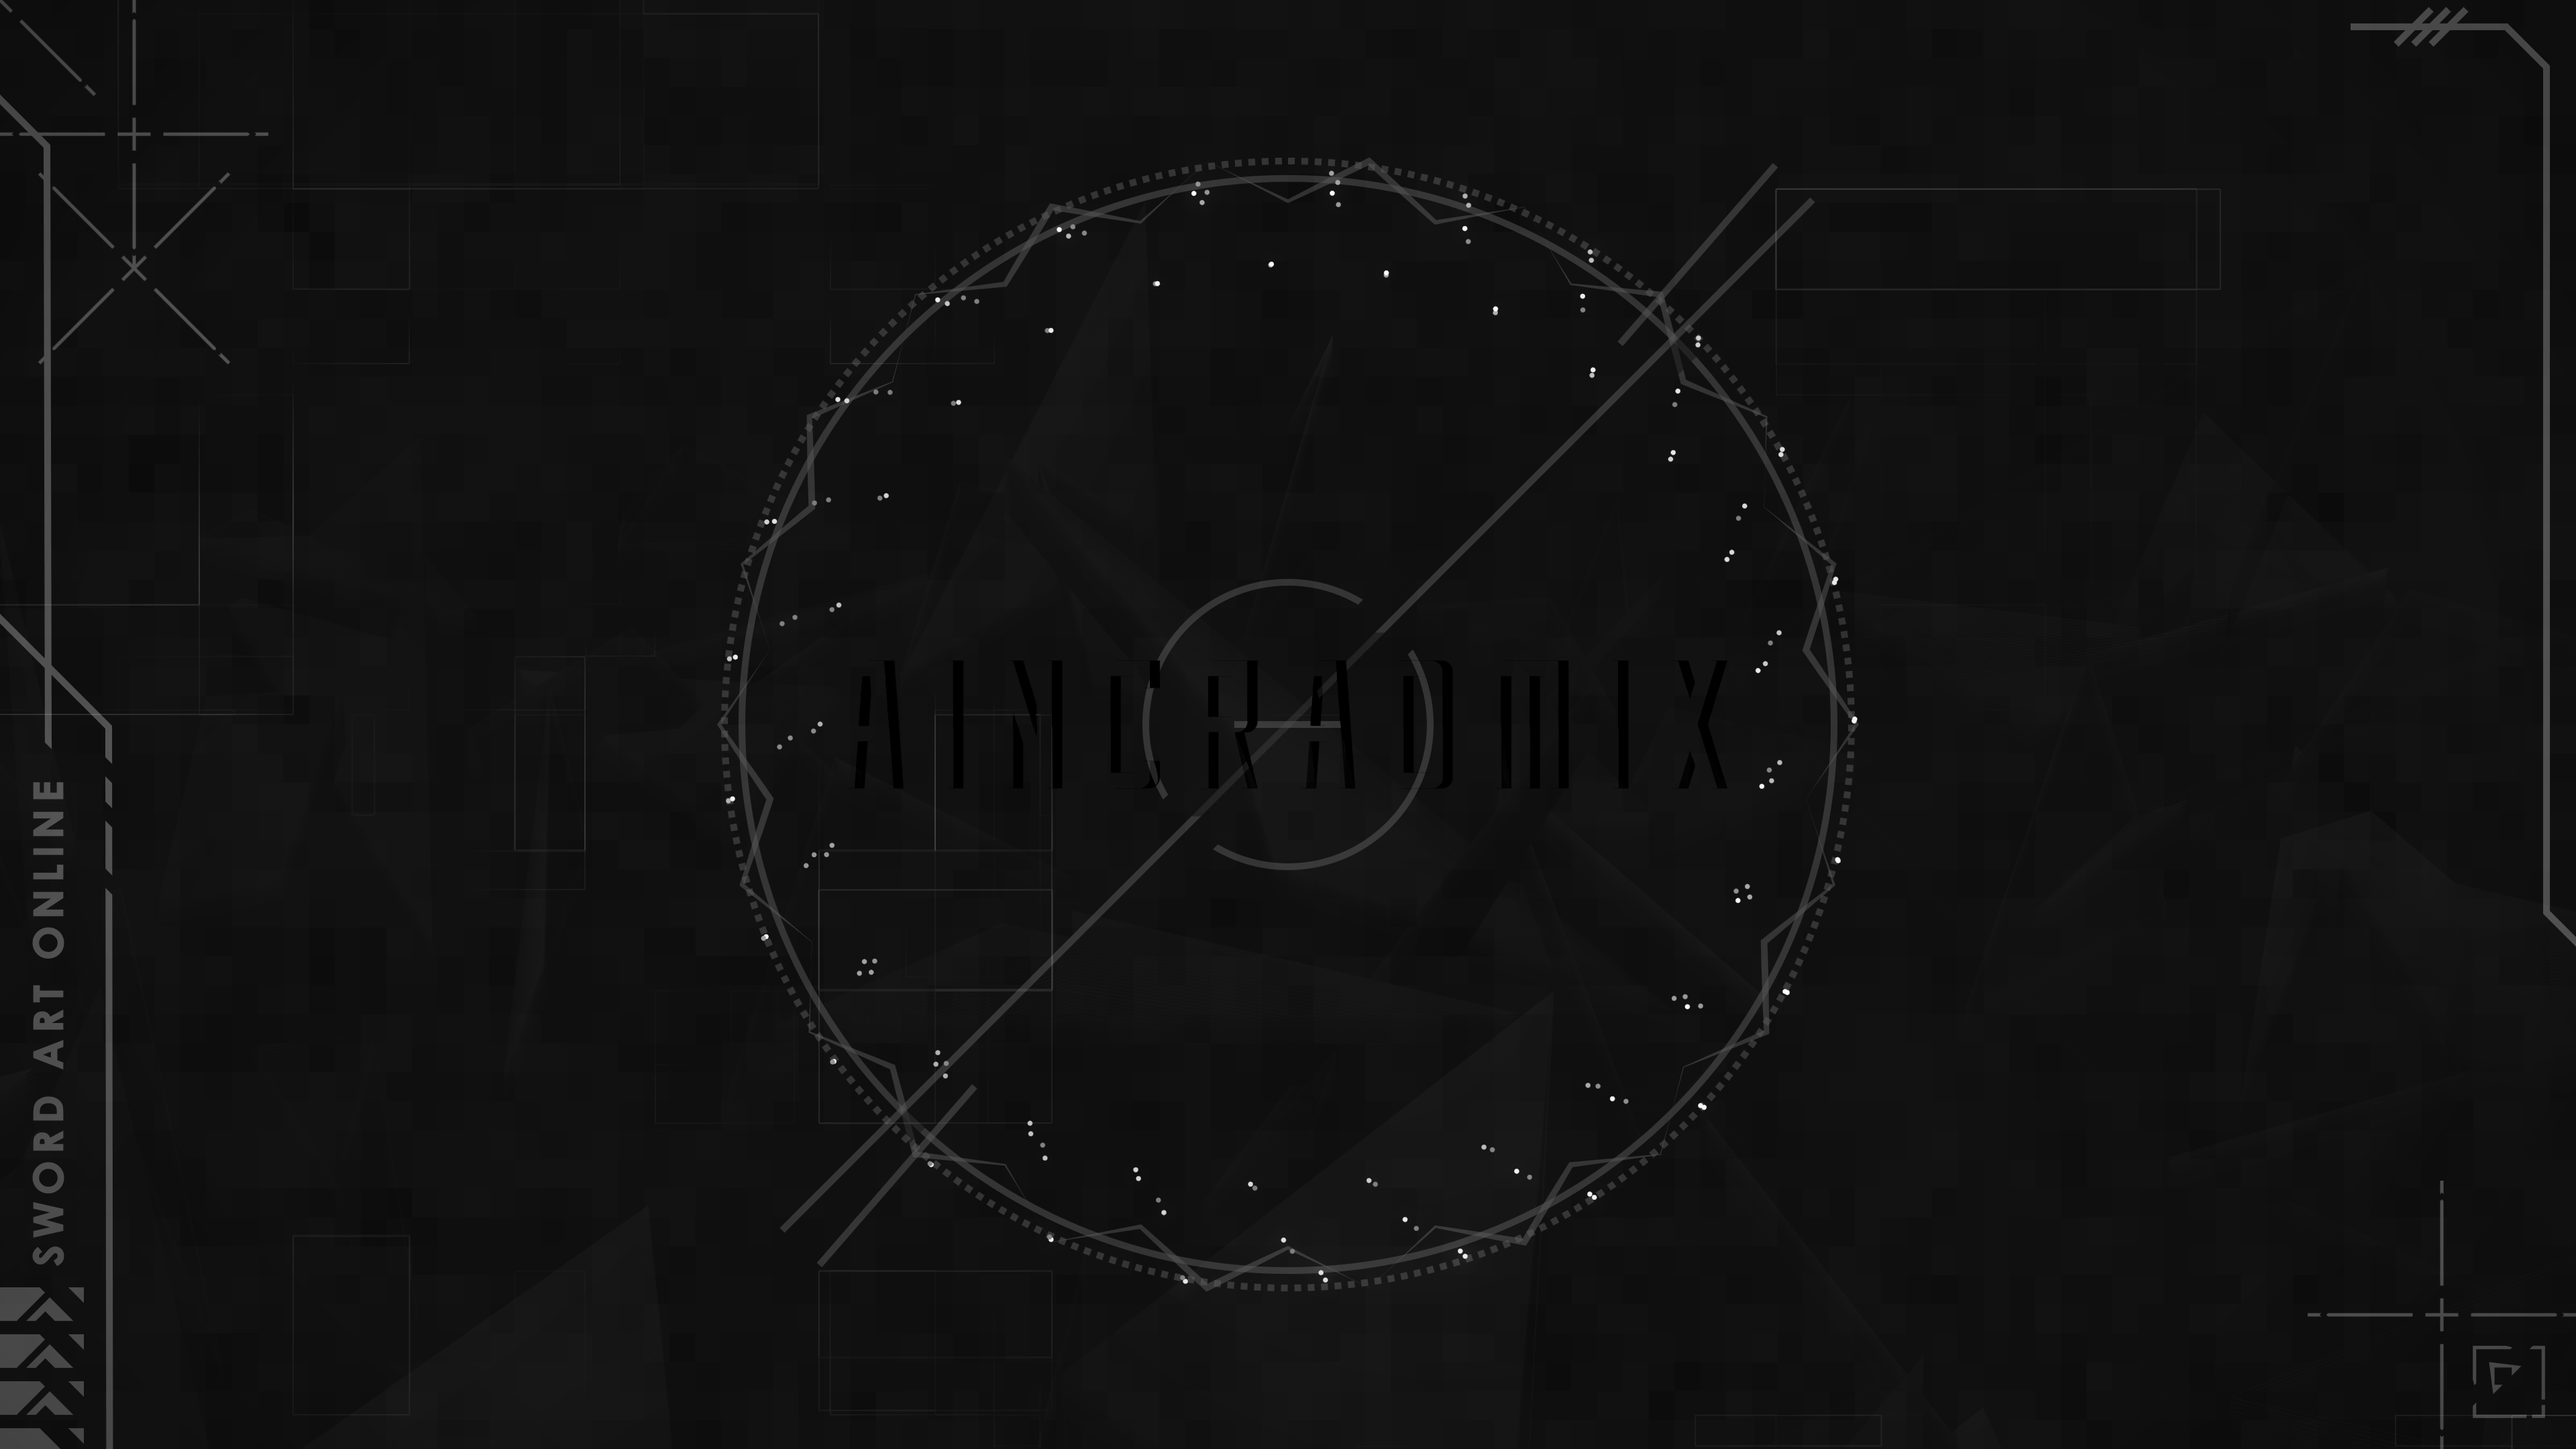
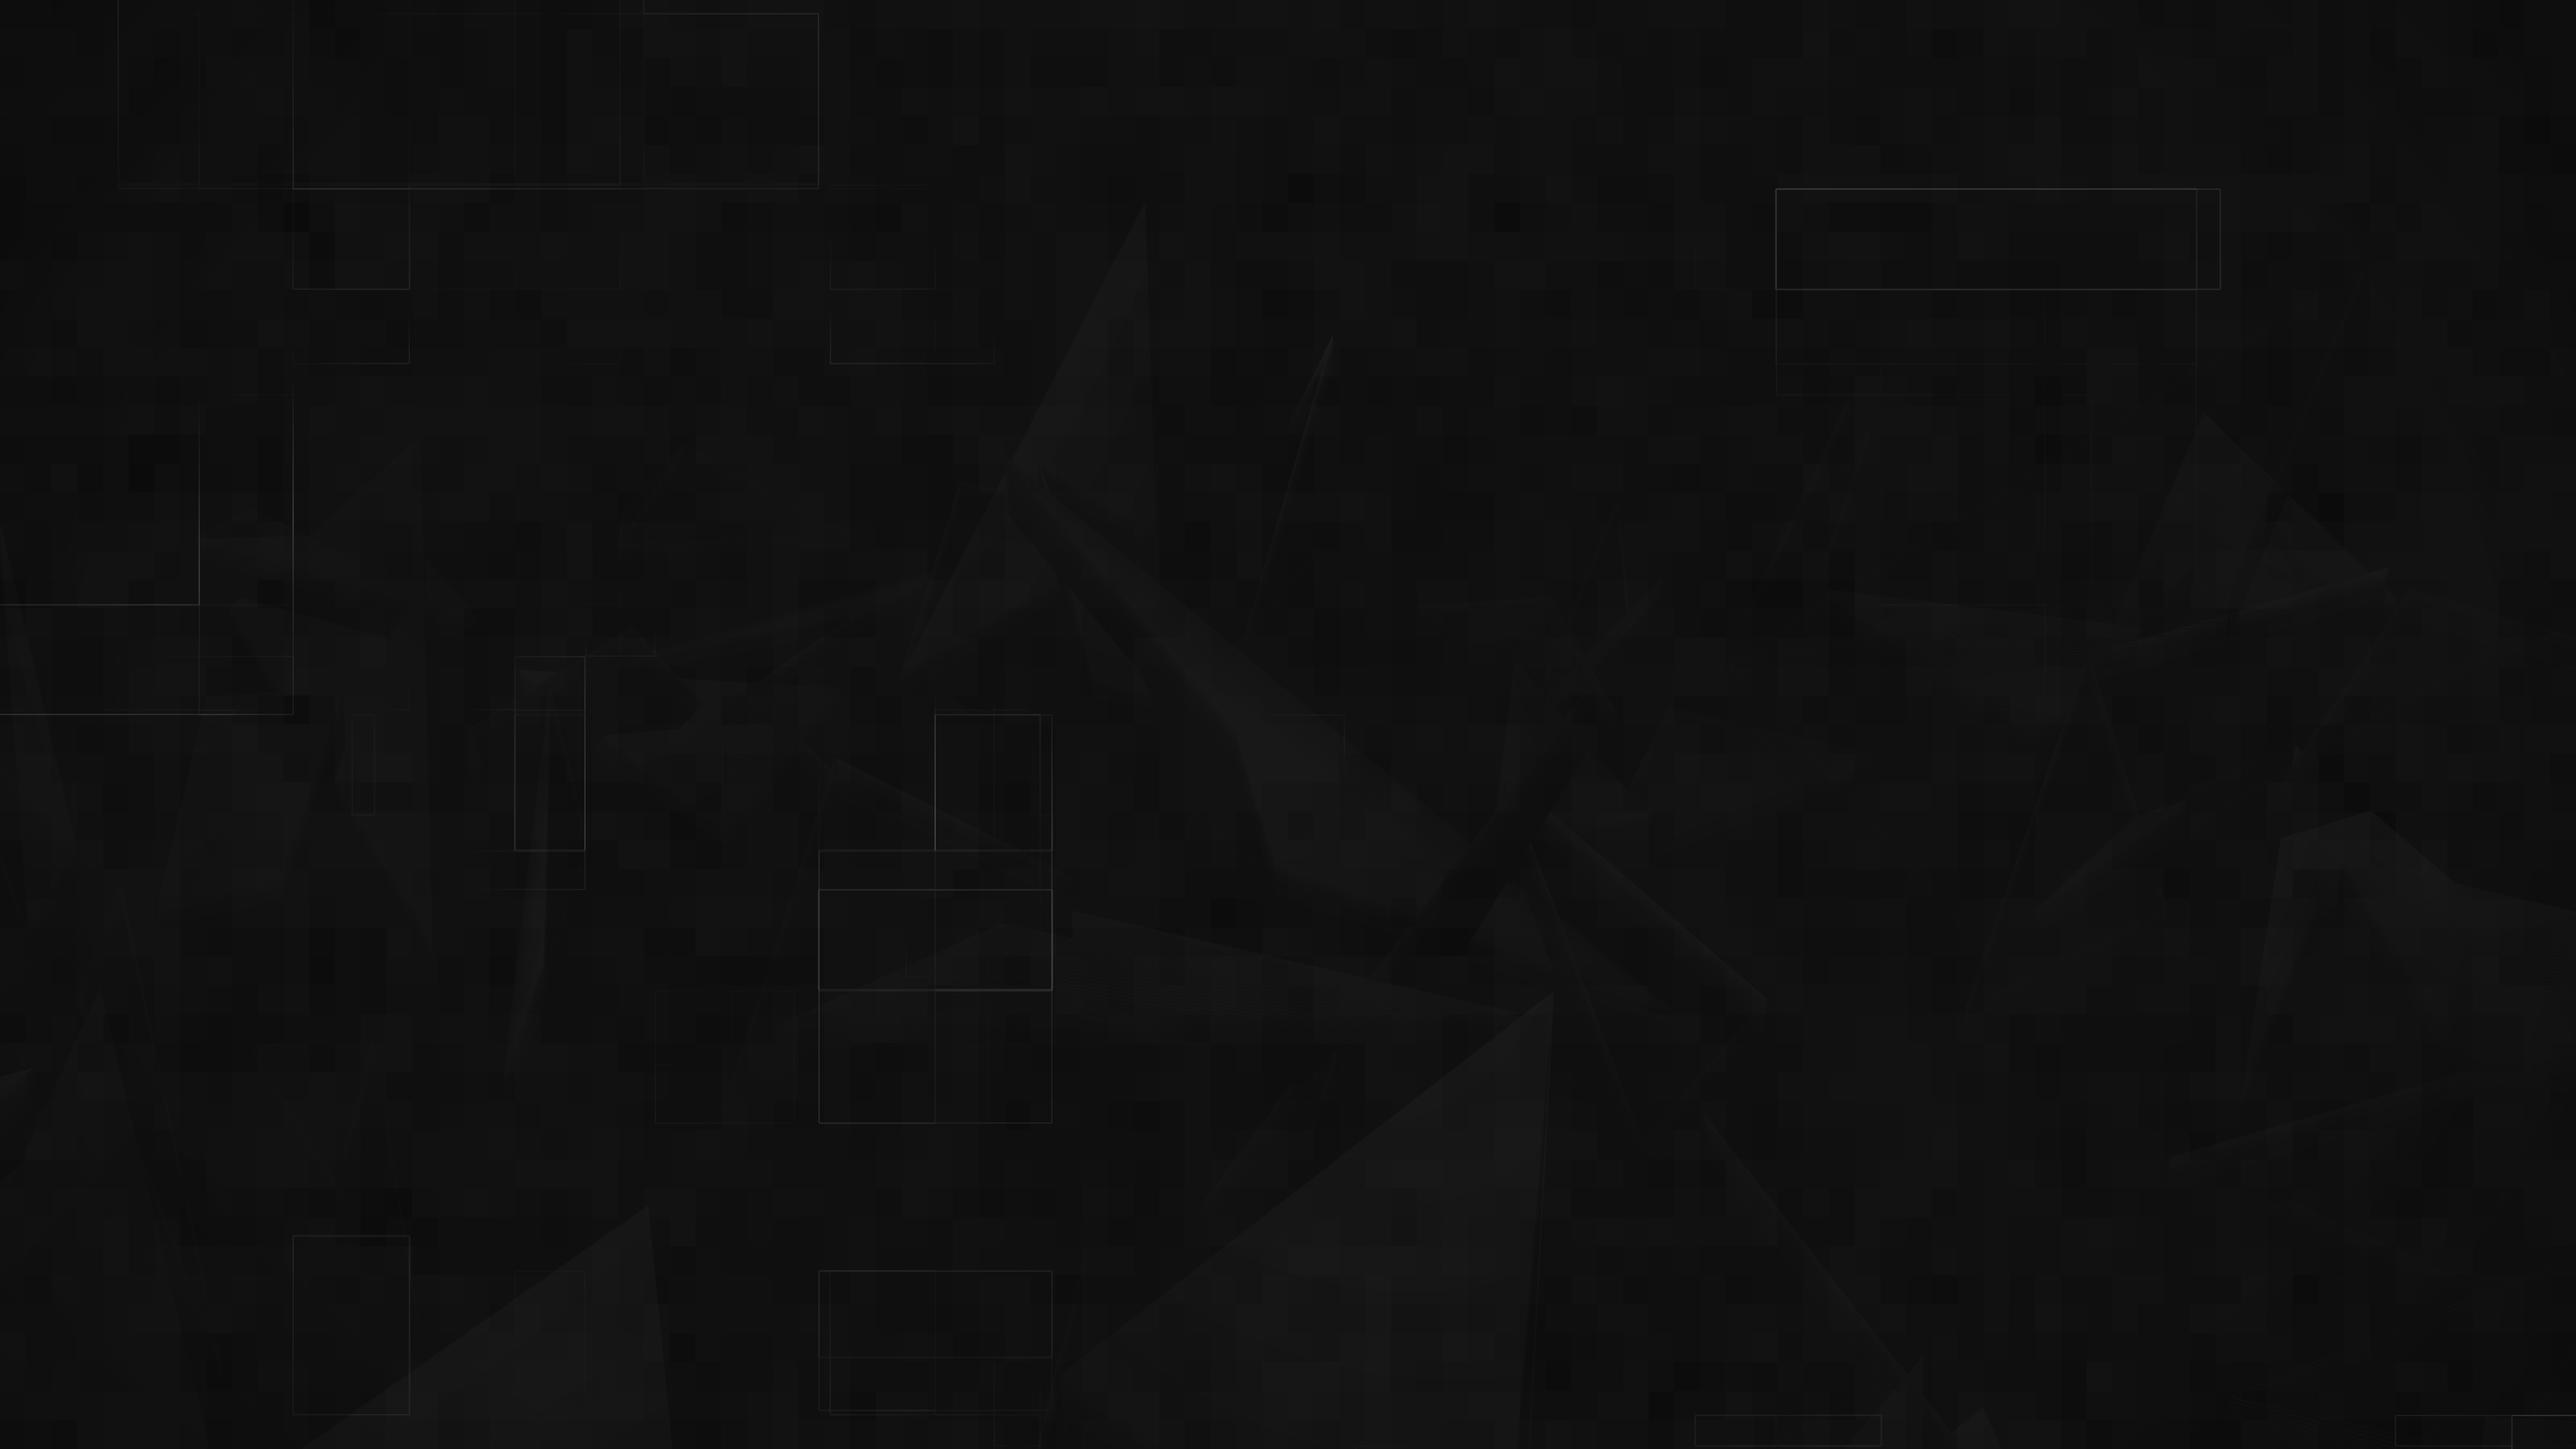
内容更新

diff --git a/assets/js/aincradmix.js b/assets/js/aincradmix.js
@@ -1,29 +1,3 @@
-$(document).ready(function () {
-  $(".toggle-btn").click(function () {
-    $(".toggle-item").slideToggle(200);
-  });
-
-  $(window).scroll(function () {
-    if ($(this).scrollTop() > 50) {
-      $(".btn-menu").css({
-        right: "2em",
-        bottom: "2em",
-        opacity: "0.5",
-        width: "3em",
-        transform: "scale3d(1.2, 1.2, 1)",
-      });
-    } else {
-      $(".btn-menu").css({
-        right: "0",
-        bottom: "0",
-        opacity: "1",
-        width: "100%",
-        transform: "scale3d(1, 1, 1)",
-      });
-    }
-  });
-});
-
 var ani_warn = {
   container: document.getElementById("warn"),
   path: "assets/animations/warn.json",
@@ -48,6 +22,58 @@ var ani_aincrad = {
   autoplay: true,
 };
 
+var ani_download = {
+  container: document.getElementById("animation_button"),
+  path: "assets/animations/download.json",
+  renderer: "svg",
+  loop: false,
+  name: "ani_delimiter",
+  autoplay: false,
+};
+
+var ani_delimiter = {
+  container: document.getElementById("delimiter"),
+  path: "assets/animations/delimiter.json",
+  renderer: "svg",
+  loop: true,
+  autoplay: true,
+};
+
 lottie.loadAnimation(ani_warn);
 lottie.loadAnimation(ani_errcode);
 lottie.loadAnimation(ani_aincrad);
+lottie.loadAnimation(ani_download);
+lottie.loadAnimation(ani_delimiter);
+
+$(document).ready(function () {
+  $(".toggle-btn").click(function () {
+    $(".toggle-item").slideToggle(200);
+  });
+
+  $("#animation_button").hover(function () {
+      lottie.play("ani_delimiter")
+    }, function () {
+      lottie.stop("ani_delimiter")
+    }
+  );
+
+  $(window).scroll(function () {
+    if ($(this).scrollTop() > 50) {
+      $(".btn-menu").css({
+        right: "2em",
+        bottom: "2em",
+        opacity: "0.5",
+        width: "3em",
+        transform: "scale3d(1.2, 1.2, 1)",
+      });
+    } else {
+      $(".btn-menu").css({
+        right: "0",
+        bottom: "0",
+        opacity: "1",
+        width: "100%",
+        transform: "scale3d(1, 1, 1)",
+      });
+    }
+  });
+});

diff --git a/_sass/header.scss b/_sass/header.scss
@@ -5,7 +5,6 @@
   align-items: center;
   flex-flow: column nowrap;
   justify-content: flex-start;
-  border-bottom: $white-transparent-20 dashed;
 
   h1 {
     line-height: 0;
@@ -24,8 +23,10 @@
   img {
     @extend .disable-select;
     top: 0;
-    opacity: 0.2;
+    left: 0;
+    z-index: -1;
     position: fixed;
+    background-color: $black;
   }
 }
 
@@ -117,48 +118,22 @@
   }
 }
 
-.bg {
-  z-index: 1;
-  opacity: 0.1;
-  position: absolute;
-
-  #aincrad {
-    width: 100%;
-    height: 100%;
-    text-align: center;
-    transform: translate3d(0, 0, 0);
-  }
+#delimiter {
+  width: 4em;
+  padding: 2em 0 0;
 }
 
-.overlay {
-  width: 100%;
-  z-index: 15;
-  height: 100%;
-  display: block;
-  position: absolute;
-  background-color: $white;
-}
-
-@media screen and (max-width: 900px) {
-  .container-title {
-    img {
-      top: 90%;
-      left: 100%;
-      width: 200%;
-      transform: translate(-50%, -50%);
-    }
-  }
-}
-
-@media screen and (max-width: 360px) {
+@media screen and (max-width: 500px) {
   .container-title {
     h1 {
       font-size: 3em;
     }
-  }
-}
 
-@media screen and (max-width: 600px) {
+    p {
+      font-size: 1em;
+    }
+  }
+
   .menu-content-bg {
     width: 100%;
     margin: auto;

diff --git a/index.html b/index.html
@@ -23,9 +23,7 @@ description: "一个有着刀剑神域ui风格的osu!皮肤项目"
     <h1>皮肤展示</h1>
     <p>截图</p>
   </div>
-  <div>
-    <h1>皮肤下载</h1>
-  </div>
+  <a id="animation_button" href="https://github.do/https://github.com/Sendevia/AincradMix/archive/refs/heads/master.zip">皮肤下载</a>
   <div>
     <h1>自定义</h1>
     <h2>自定义介绍</h2>
@@ -90,12 +88,5 @@ description: "一个有着刀剑神域ui风格的osu!皮肤项目"
         <material-icons>radio_button_unchecked</material-icons> 点击波纹
       </p>
     </div>
-  </div>
-  <div>
-    <h1>引用素材来源</h1>
-    <p>style_lazer/old 来自 ppy/osu</p>
-    <p>部分颜色取自 SAO 动画的官方网站</p>
-    <p>7zip 来自 7-zip.org</p>
-    <h2>非常感谢这些资源的创作者</h2>
   </div>
 </div>

diff --git a/_sass/index.scss b/_sass/index.scss
@@ -55,3 +55,25 @@
     }
   }
 }
+
+#animation_button {
+  @extend .flex-box-center;
+  width: 7em;
+  margin: 1rem;
+  font-size: 2em;
+  padding: 1rem 2em;
+  flex-wrap: nowrap;
+  white-space: nowrap;
+  flex-direction: row-reverse;
+
+  &:hover {
+    background-color: $white-transparent-20;
+  }
+}
+
+@media screen and (max-width: 600px) {
+  #animation_button {
+    margin: 0;
+    padding: 1rem;
+  }
+}

diff --git a/_includes/header.html b/_includes/header.html
@@ -1,8 +1,10 @@
 <div class="container-title">
-  <img src="/assets/images/s0_logo_only.png?v=1.1" alt="logo" />
+  <img src="/assets/images/s0_amix_head_bg.png?v=2" alt="background" />
   <h1>{{ page.title }}</h1>
   <p>{{ page.description }}</p>
+  <div id="delimiter"></div>
 </div>
+
 
 <div class="btn-menu toggle-btn">
   <material-icons class="icon-menu">menu</material-icons>

diff --git a/_sass/main.scss b/_sass/main.scss
@@ -25,13 +25,19 @@ body {
   padding: 0px;
   color: $white;
   scrollbar-width: none;
-  background-color: $black;
   font-family: 'ZCOOL XiaoWei';
   text-rendering: optimizeLegibility;
   ::-webkit-scrollbar {
     width: 0;
   }
+  text-shadow: 0 2px 6px #131313;
 }
+
+a {
+  color: $white;
+  text-decoration: none;
+}
+
 //主体结束
 
 //页面布局开始

diff --git a/_sass/about.scss b/_sass/about.scss
@@ -16,8 +16,7 @@
   justify-content: space-around;
 
   a {
-    color: $white;
-    text-decoration: none;
+    padding: 1em;
   }
 }
 
